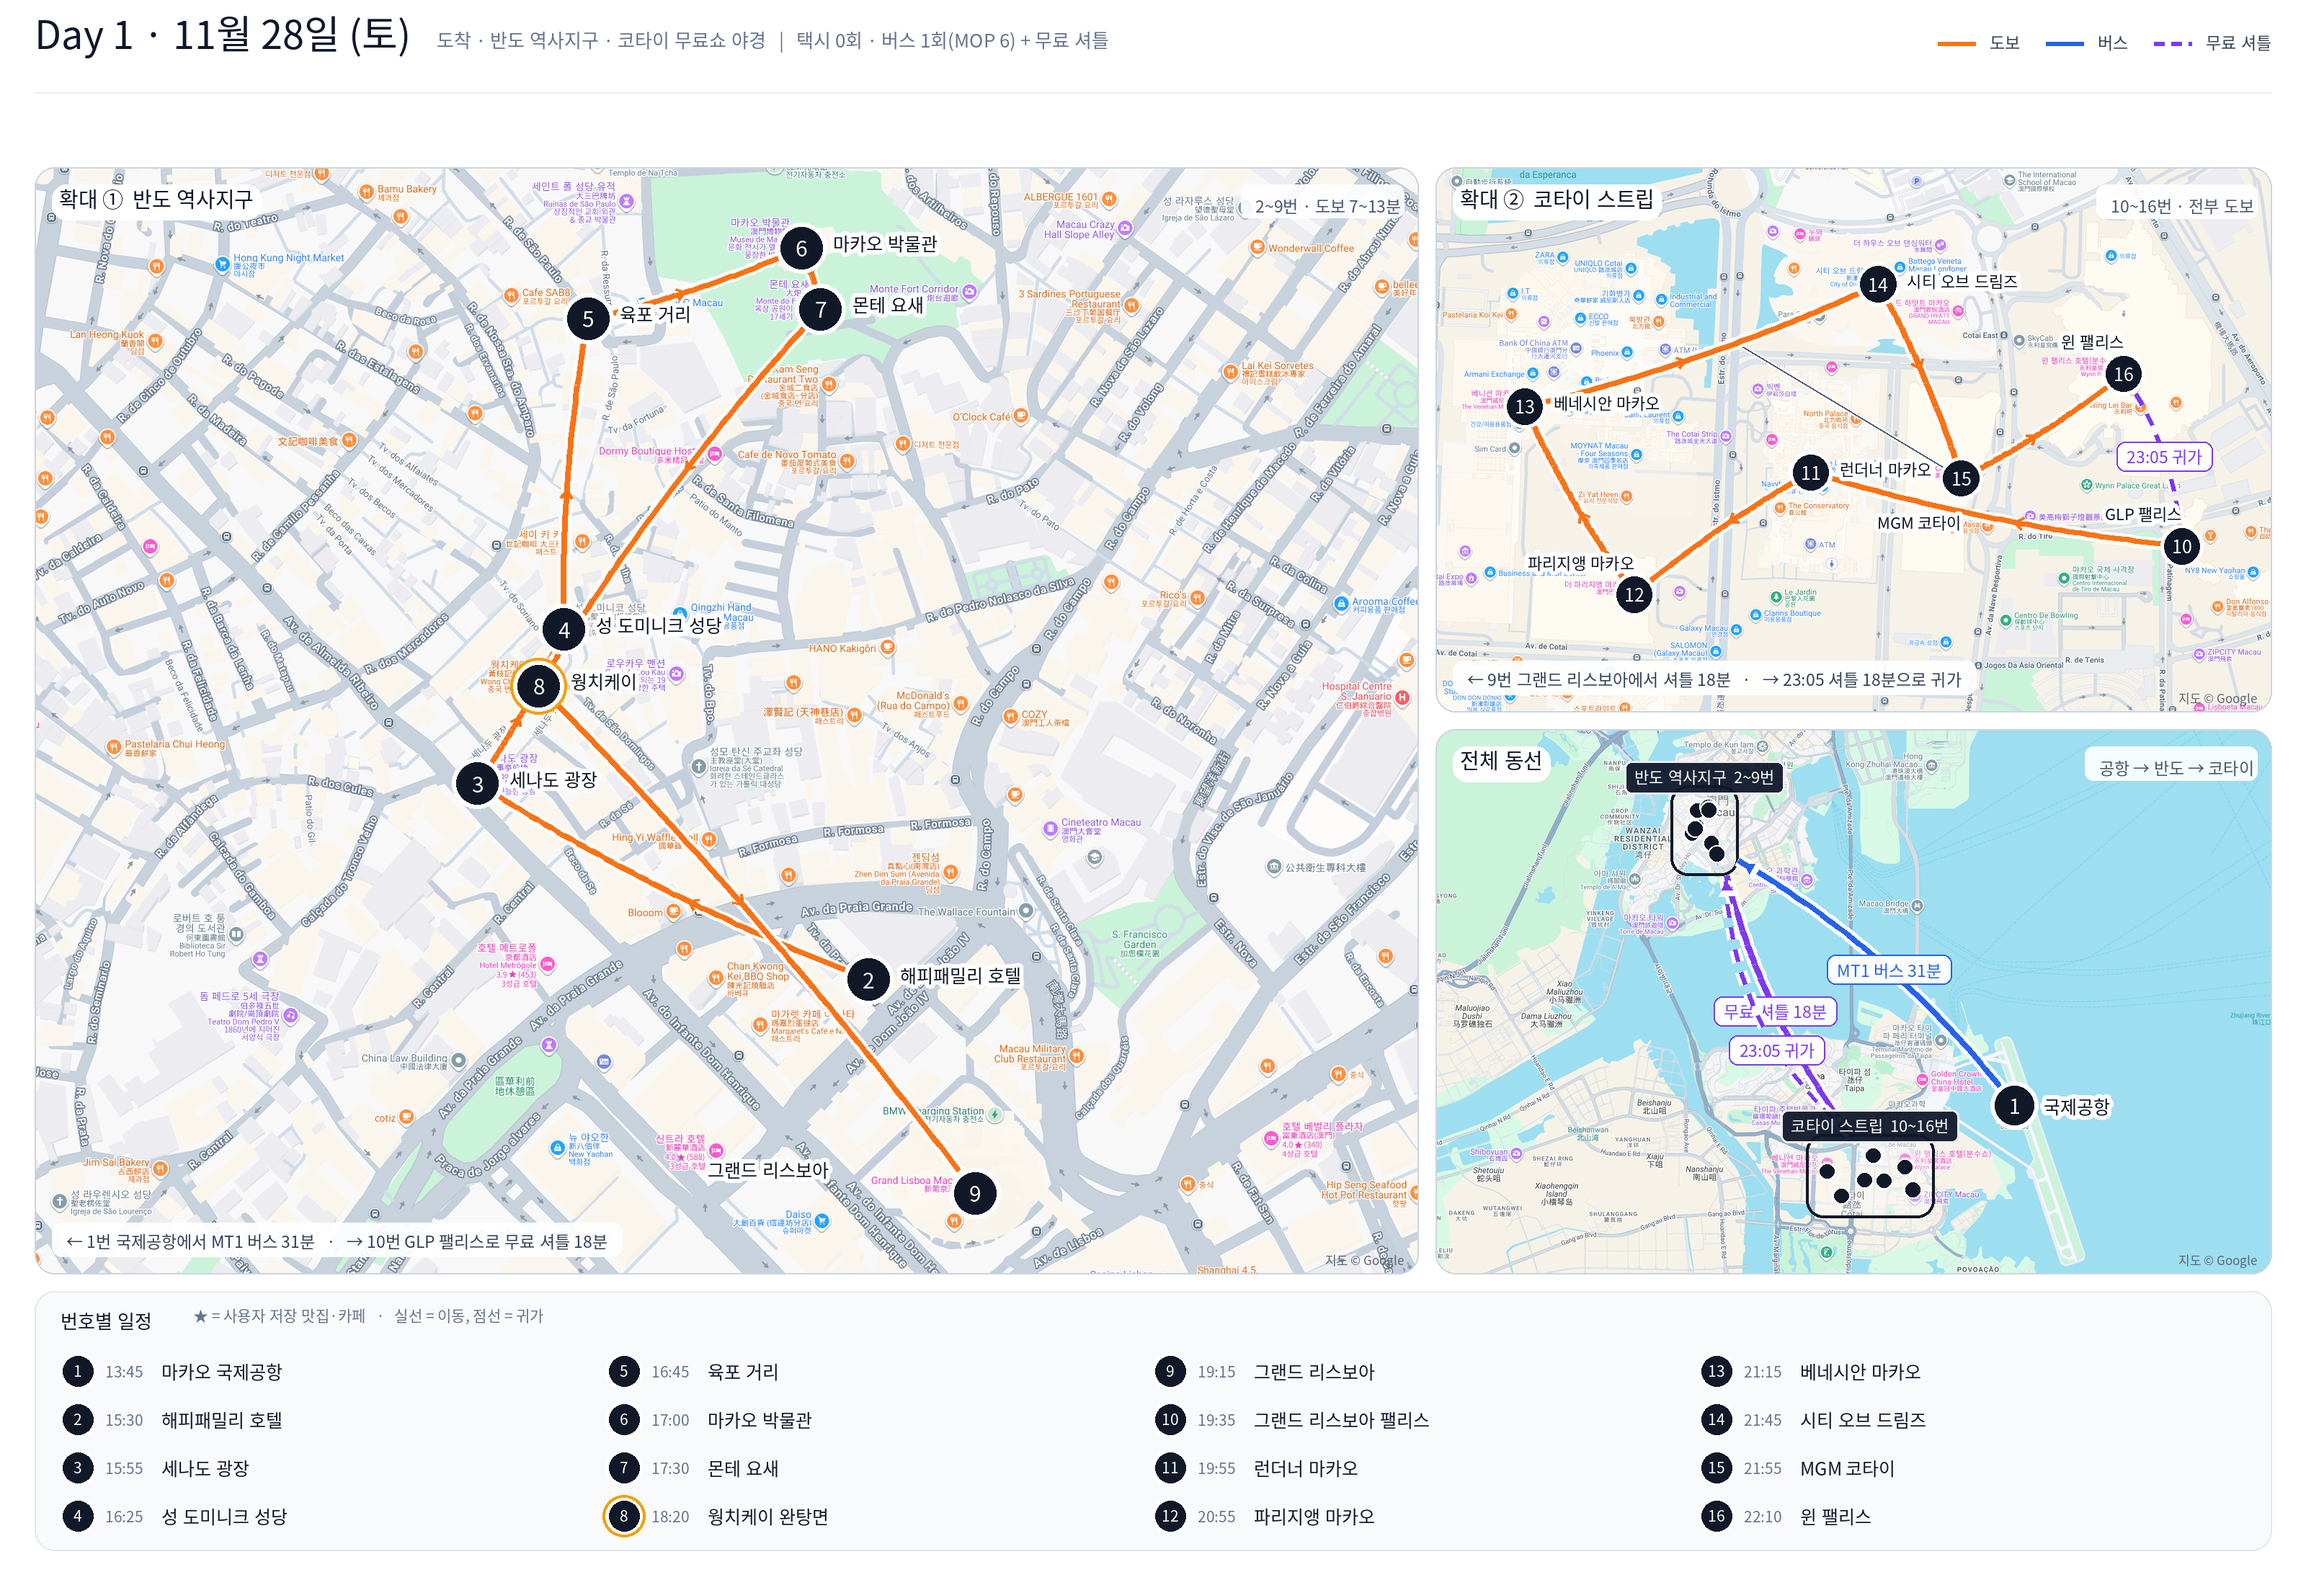
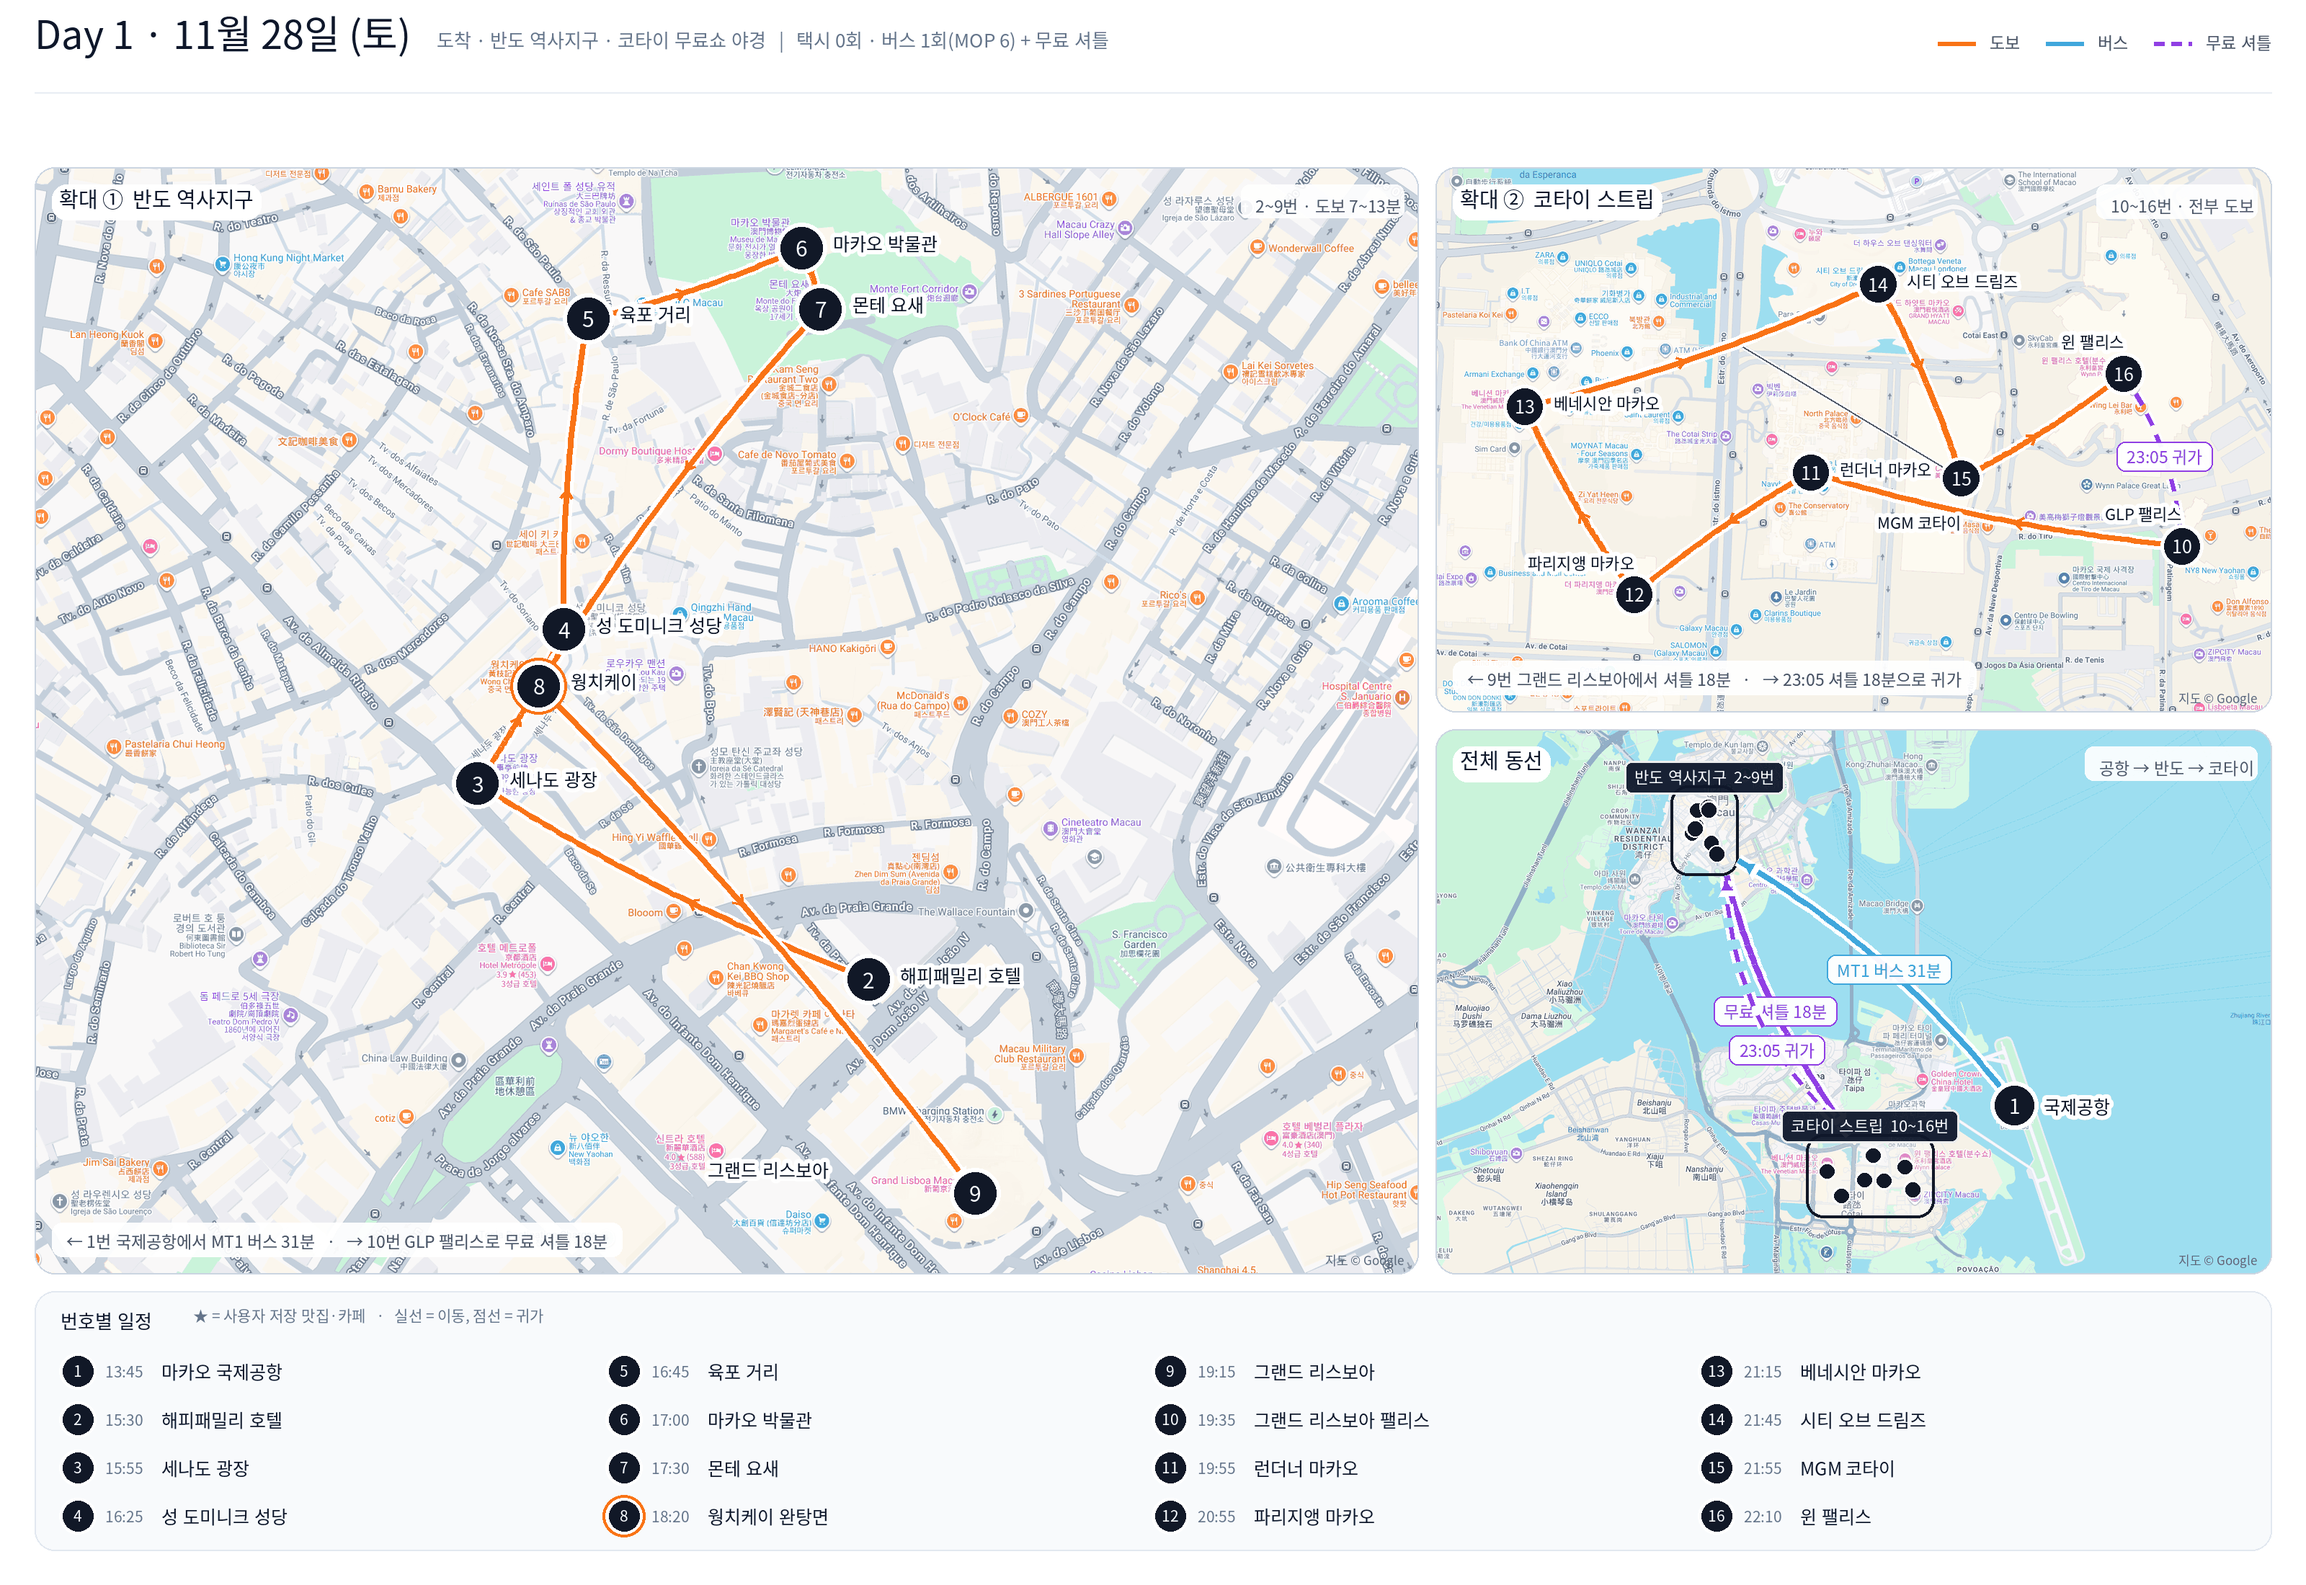
Compress route maps (256-colour PNG) and document them

diff --git a/README.md b/README.md
@@ -134,3 +134,10 @@ All photos are from Wikimedia Commons and remain under their original licenses (
 | 116 | `Wynn_Palace_02-3fb3bfce.jpg` | Doraemon.tvb | [CC BY-SA 3.0](https://creativecommons.org/licenses/by-sa/3.0) | [Commons](https://commons.wikimedia.org/wiki/File:Wynn_Palace_02.jpg) |
 | 117 | `Wynn_Palace_Cotai_cable_car_over_Performance_Lake_with_hotel_facade_Ma-c65e547a.jpg` | Qrzzzz | [CC BY-SA 4.0](https://creativecommons.org/licenses/by-sa/4.0) | [Commons](https://commons.wikimedia.org/wiki/File:Wynn_Palace_Cotai,_cable_car_over_Performance_Lake_with_hotel_facade,_Macau,_August_2025.jpg) |
 | 118 | `thumbnail-6cf54b90.jpg` | Bita RmJohnson Liuosa | [CC0](http://creativecommons.org/publicdomain/zero/1.0/deed.en) | [Commons](https://commons.wikimedia.org/wiki/File:MC_%E6%BE%B3%E9%96%80_Macau_%E8%B7%AF%E6%B0%B9_Cotai_%E6%B0%B8%E5%88%A9%E7%9A%87%E5%AE%AE_Wynn_Palace_%E5%99%B4%E6%B0%B4%E6%B1%A0_%E5%AE%9A%E6%9C%9F%E8%A1%A8%E6%BC%94_water_pool_fountain_show_%E6%BE%B3%E9%96%80%E9%AB%94%E8%82%B2%E9%A4%A8%E5%A4%A7%E9%A6%AC%E8%B7%AF_Avenida_da_Nave_Desportiva_night_in_November_2023_R12S_04.jpg) |
+
+## Route maps (Day 1–3)
+
+`maps/day{1,2,3}_route.png` — 3200×2200 posters built from Google Maps tiles (`mt1.google.com`, `hl=ko`)
+with a numbered route overlay, direction arrows and a Korean legend (generated 2026-11-21).
+Map data © Google; place coordinates from Google Maps. Intermediate zooms were rendered offline,
+so the posters are static images, not live maps.
